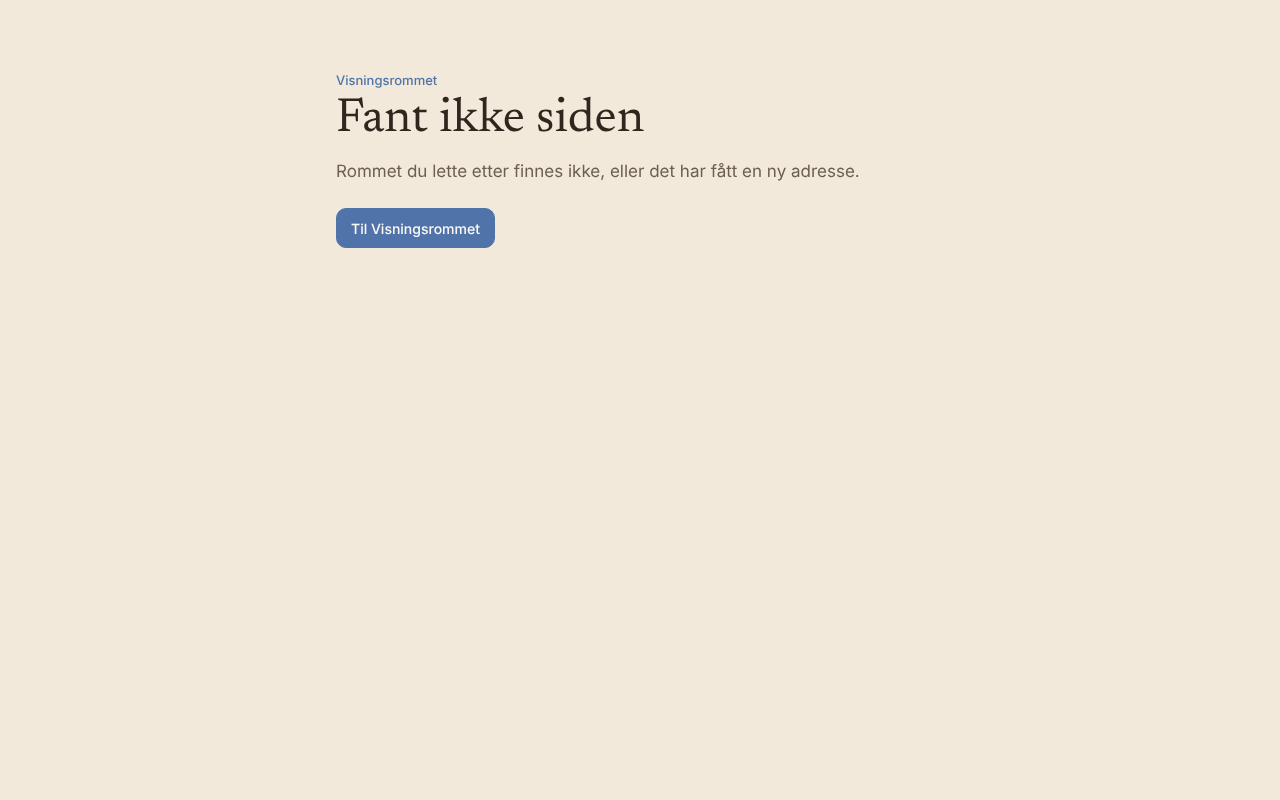
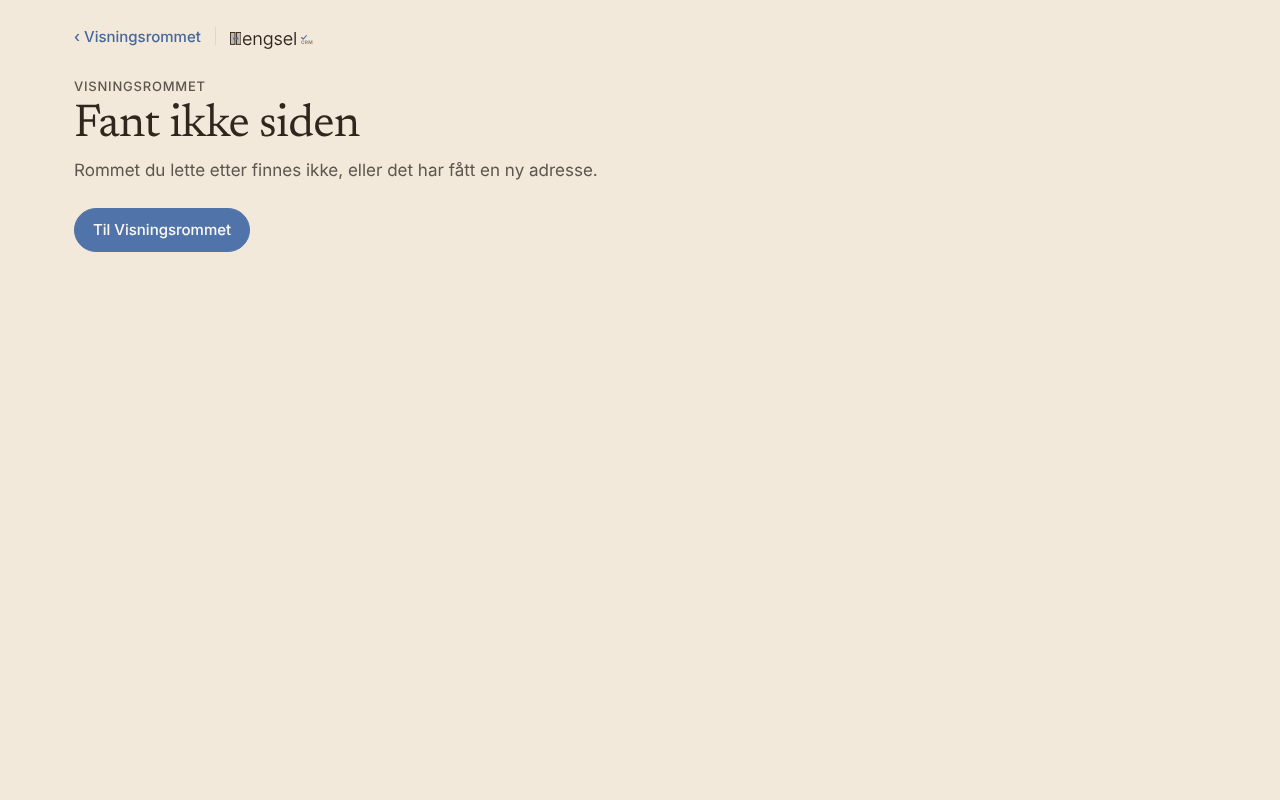
vis: README for profilen, nye skjermbilder, og skjermbilder.mjs tåler den nye hengsel.no-forsiden
- sites/vis/README.md: tokens, tekstvarianter, typografi, flater, kontroller, klassenavn som kolliderer
  med vis.css, logoen i skript, og VIS_DIST
- docs/skjermbilder/vis-*: forsiden, Ordrens reise, /sv/ og 404 på 390 og 1280 px, lys og mørk
- scripts/skjermbilder.mjs: forsiden fra PR #4 har ikke fanene (data-hero-faner) lenger, så fanesjekkene
  hoppes over når de mangler (npm run skjermbilder stoppet på main)

Sjekkliste (README §1–§9 og prioritetene):
- [x] §1 tokens lys/mørk, ingen ren hvit, gradienter eller skygger (unntak varselet i Kundens reise)
- [x] §2 typografi; serif aldri under 1,45rem; versaler og sperring bare på .eyebrow
- [x] §3 basiskomponenter i vis.css
- [x] §4 felles skall i alle rom: topplinje med logo 18 og statuspille, sidehode, bunntekst
- [x] §5 forsiden: toppfelt, «Slik henger det sammen», rollevelger, romkort med bilde, bunn med familiebånd
- [x] §6 rommaler a/b/c; simuleringene stables og scenelinjen ruller på 390 px
- [x] §7 /sv/ og /en/ med språkvelger
- [x] §8 Hengsel-logoen 26/18/16/28/20 px, mørk variant; «Sigdal CRM» borte fra simulert innhold
- [x] §9 kontrast ≥ 4,5:1 i lys og mørk (målt), klikkflater, fokusring, reduced motion, script-src 'self'
- [x] Systemkartet: koblingslinjer 1,5 px; Montasjeplan: ingen tekstoverlapp i kortene (målt)
- [x] npm test, npm run skjermbilder, npm run skjermbilder:vis: 0 feil

Claude-Session: https://claude.ai/code/session_01XUX8fkzkTEqWReZM1iEFk5

diff --git a/sites/vis/README.md b/sites/vis/README.md
@@ -45,12 +45,37 @@ Skriftene er Newsreader (titler) og Inter (tekst), selvhostet fra `@fontsource-v
 ikke i `src/`; `bygg.mjs` legger dem og `fonts.css` i `dist/fonts/` ved hvert bygg. Ingen kall til Google Fonts, og
 CSP-en tillater bare skrifter fra `'self'`. Ikke lag en mappe `src/fonts/`; bygget stopper da.
 
+## Profilen i korte trekk
+
+- **Tokens** (samme navn som før, nye verdier): `--bg` Beige 3, `--card` Off White, `--soft` Beige 4, `--fg` Warm Black,
+  `--muted`, `--line` Beige 2, `--sand` Beige 1, `--accent` Deep Blue (Dusty Blue i mørk), `--accent-soft`, `--dusty`,
+  `--ok`/`--ok-soft`, `--warn`/`--warn-soft`. Bruk aldri faste fargekoder i rommene (unntak: telefon- og nettbrettrammen
+  `#1B1713`); da blir mørk modus feil.
+- **Tekst i aksent- eller ok-farge** bruker `--accent-tekst` og `--ok-tekst`. Deep Blue og ok-grønn gir under 4,5:1 som
+  tekst på Beige 3 og de myke flatene, så tekstvariantene er litt mørkere i lys modus (like i mørk). Flater, streker og
+  knapper bruker `--accent`/`--ok`.
+- **Typografi:** Newsreader 400 bare på titler og nøkkeltall, aldri under 1,45rem. Inter 17/1,6 til brødtekst, 15 til UI,
+  14 til hjelpetekst, 13 til eyebrow og piller. Versaler og sperring bare med klassen `.eyebrow` (paneloverskrifter som
+  «Prøv dette», «Samtidig i …», «Bak kulissene»); lag ikke egne regler med `text-transform`/`letter-spacing`.
+- **Flater:** `.card` på bakgrunnen, `.tile` inni kort (aldri kort på kort). Varsler og valgt rad markeres med
+  `box-shadow:inset 3px 0 0 var(--warn)` (eller `--ok`/`--accent`), ikke `border-left`. Ingen skygger og gradienter
+  (eneste unntak: varselet som glir inn i Kundens reise).
+- **Kontroller:** `.btn` (44 px pille), `.btn.primary`, `.btn.dark` for valgt pille i velgere, `.btn.ghost` for
+  «Start på nytt»; `.tabs` med `aria-selected`; `.switch` med `role="switch"` og `aria-checked`; statuspiller `.pill.ok/.warn/.info`.
+- **Klassenavn som kolliderer med vis.css:** `.card`, `.tabs`, `.foot`, `.num`, `.ghost`, `.tile`, `.pill`. Bruk andre
+  navn for lokale ting (rommene bruker f.eks. `.job`, `.tabbar`, `.steg`, `.afoot`, `.felt`). Regler på `svg` i et rom må
+  avgrenses (`.flow>svg`), ellers treffer de også Hengsel-logoen.
+- **Hengsel-logoen** i innhold som lages av skript: legg `<template id="hlogo"><!--hengsel-logo 16--></template>` i HTML
+  og klon `innerHTML` i `side.js` (se `crm/side.js` og `system/side.js`).
+
 ## Kommandoer (fra rotmappen)
 
 ```sh
 npm run build -w sites/vis         # src/ → dist/
 npm test                           # lenkesjekk for alle nettstedene, også rommene i C
-npm run skjermbilder:vis           # alle sider på 390 og 1280 px, lys og mørk + skjermbilder i docs/skjermbilder/vis-*
+npm run skjermbilder:vis           # alle sider på 390 og 1280 px, lys og mørk (konsoll, CSP, rulling, skrifter)
+                                   # + skjermbilder i docs/skjermbilder/vis-*
+VIS_DIST=/tmp/vis node sites/vis/bygg.mjs   # bygg til en annen mappe enn dist/
 ```
 
 
